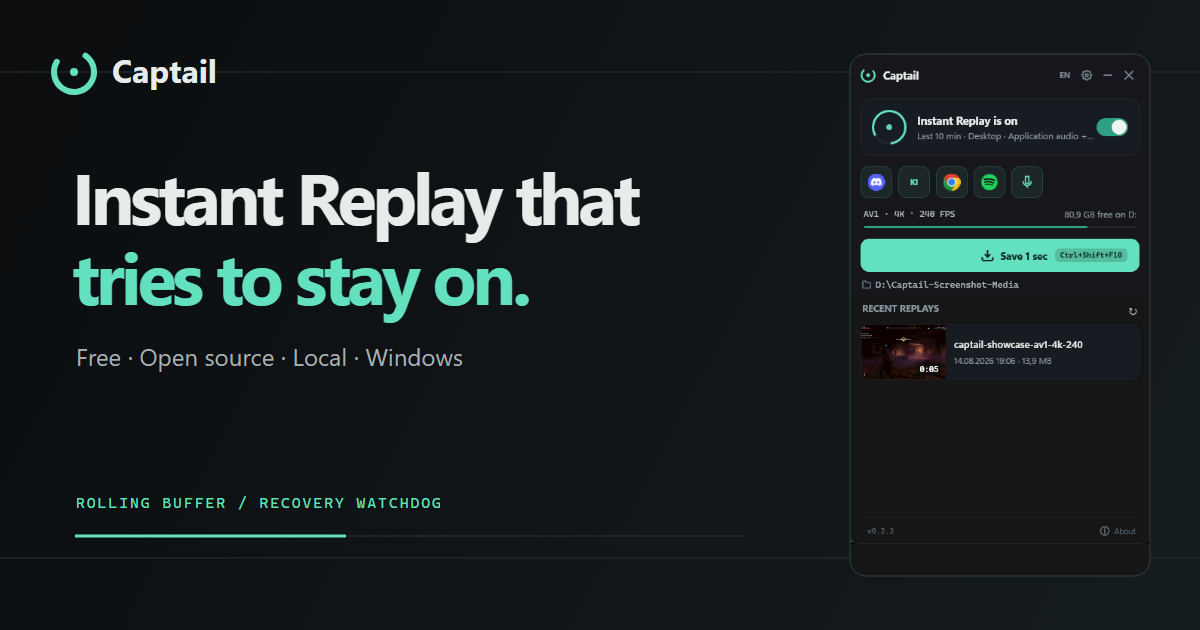
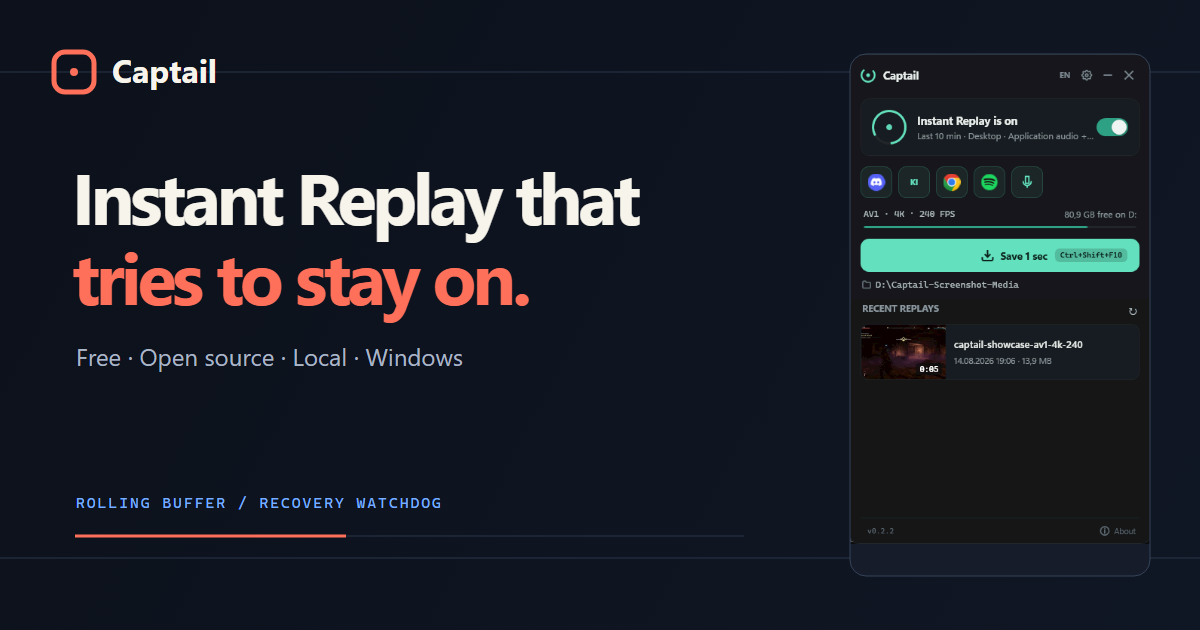
release: prepare 0.8.5

diff --git a/src/Captail/Themes/Theme.xaml b/src/Captail/Themes/Theme.xaml
@@ -94,7 +94,7 @@
   <Geometry x:Key="IconSearch">M10.5 4.5a6 6 0 1 0 0 12 6 6 0 0 0 0-12z M15 15l4.5 4.5</Geometry>
   <Geometry x:Key="IconDisplay">M3 4.5h18v12H3z M8 20h8 M12 16.5V20</Geometry>
   <Geometry x:Key="IconMic">M9 4a3 3 0 0 1 6 0v7a3 3 0 0 1-6 0z M5.5 10.5v.5a6.5 6.5 0 0 0 13 0v-.5 M12 17.5V21 M8.5 21h7</Geometry>
-  <Geometry x:Key="IconGear">M12 9a3 3 0 1 0 0 6 3 3 0 0 0 0-6z M19.4 15a1.65 1.65 0 0 0 .33 1.82l.06.06a2 2 0 1 1-2.83 2.83l-.06-.06a1.65 1.65 0 0 0-1.82-.33 1.65 1.65 0 0 0-1 1.51V21a2 2 0 1 1-4 0v-.09a1.65 1.65 0 0 0-1-1.51 1.65 1.65 0 0 0-1.82.33l-.06.06a2 2 0 1 1-2.83-2.83l.06-.06a1.65 1.65 0 0 0 .33-1.82 1.65 1.65 0 0 0-1.51-1H3a2 2 0 1 1 0-4h.09a1.65 1.65 0 0 0 1.51-1 1.65 1.65 0 0 0-.33-1.82l-.06-.06a2 2 0 1 1 2.83-2.83l.06.06a1.65 1.65 0 0 0 1.82.33 1.65 1.65 0 0 0 1-1.51V3a2 2 0 1 1 4 0v.09a1.65 1.65 0 0 0 1 1.51 1.65 1.65 0 0 0 1.82-.33l.06-.06a2 2 0 1 1 2.83 2.83l-.06.06a1.65 1.65 0 0 0-.33 1.82 1.65 1.65 0 0 0 1.51 1H21a2 2 0 1 1 0 4h-.09a1.65 1.65 0 0 0-1.51 1z</Geometry>
+  <Geometry x:Key="IconGear">M12 8.5a3.5 3.5 0 1 0 0 7 3.5 3.5 0 0 0 0-7z M19.4 13.5l1.6 1.2-2 3.5-1.9-.8a7.7 7.7 0 0 1-2.1 1.2l-.2 2H9.2l-.2-2a7.7 7.7 0 0 1-2.1-1.2l-1.9.8-2-3.5 1.6-1.2a7.3 7.3 0 0 1 0-3L3 9.3l2-3.5 1.9.8A7.7 7.7 0 0 1 9 5.4l.2-2h5.6l.2 2a7.7 7.7 0 0 1 2.1 1.2l1.9-.8 2 3.5-1.6 1.2a7.3 7.3 0 0 1 0 3z</Geometry>
   <Geometry x:Key="IconScissors">M6.5 4a2.5 2.5 0 1 0 0 5 2.5 2.5 0 0 0 0-5z M6.5 15a2.5 2.5 0 1 0 0 5 2.5 2.5 0 0 0 0-5z M8.7 8.2L20 19.5 M8.7 15.8L20 4.5</Geometry>
   <Geometry x:Key="IconTrash">M4 7h16 M9 7V4h6v3 M18.5 7l-.8 13H6.3L5.5 7 M10 11v5 M14 11v5</Geometry>
   <Geometry x:Key="IconEdit">M14.5 5.5l4 4 M5 19l1-4L16.5 4.5a1.4 1.4 0 0 1 2 0l1 1a1.4 1.4 0 0 1 0 2L9 18z M4 21h16</Geometry>
@@ -102,14 +102,18 @@
   <Geometry x:Key="IconPause">M8 5.5h3v13H8z M14 5.5h3v13h-3z</Geometry>
   <Geometry x:Key="IconFullscreen">M9 4H4v5 M15 4h5v5 M9 20H4v-5 M15 20h5v-5</Geometry>
   <Geometry x:Key="IconExitFullscreen">M4 9h5V4 M20 9h-5V4 M4 15h5v5 M20 15h-5v5</Geometry>
-  <Geometry x:Key="IconRefresh">M20 6v5h-5 M4 18v-5h5 M6.1 9a7 7 0 0 1 11.7-2.6L20 9 M4 15l2.2 2.6A7 7 0 0 0 17.9 15</Geometry>
-  <Geometry x:Key="IconCheck">M5 12l4 4L19 6</Geometry>
+  <Geometry x:Key="IconRefresh">M20 7v5h-5 M4 17v-5h5 M6.2 8.5A7 7 0 0 1 18.5 7L20 9 M4 15l1.5 2A7 7 0 0 0 17.8 15.5</Geometry>
+  <Geometry x:Key="IconCheck">M5.5 12.5l4 4 9-9</Geometry>
+  <Geometry x:Key="IconWarning">M12 3.5l9 16H3z M12 9v4.5 M12 17h.01</Geometry>
+  <Geometry x:Key="IconRecord">M12 7a5 5 0 1 0 0 10 5 5 0 0 0 0-10z</Geometry>
+  <Geometry x:Key="IconStop">M7.5 7.5h9v9h-9z</Geometry>
+  <Geometry x:Key="IconReload">M19 8v5h-5 M18.2 8.2A7 7 0 1 0 19 15</Geometry>
   <Geometry x:Key="IconHelp">M8.2 8a3.8 3.8 0 1 1 5.1 3.6c-.9.4-1.3 1-1.3 2 M12 17.5h.01 M21 12a9 9 0 1 1-18 0 9 9 0 0 1 18 0z</Geometry>
 
   <Geometry x:Key="IconGitHub">M12 2a10 10 0 0 0-3.16 19.49c.5.09.68-.22.68-.48v-1.69c-2.78.6-3.37-1.18-3.37-1.18-.45-1.16-1.11-1.47-1.11-1.47-.91-.62.07-.61.07-.61 1 .07 1.53 1.03 1.53 1.03.9 1.53 2.35 1.09 2.92.83.09-.65.35-1.09.64-1.34-2.22-.25-4.56-1.11-4.56-4.94 0-1.09.39-1.98 1.03-2.68-.1-.25-.45-1.27.1-2.64 0 0 .84-.27 2.75 1.02A9.58 9.58 0 0 1 12 7.7a9.6 9.6 0 0 1 2.5.34c1.91-1.29 2.75-1.02 2.75-1.02.55 1.37.2 2.39.1 2.64.64.7 1.03 1.59 1.03 2.68 0 3.84-2.34 4.68-4.57 4.93.36.31.68.92.68 1.86V21c0 .27.18.58.69.48A10 10 0 0 0 12 2z</Geometry>
-  <Geometry x:Key="IconInfo">M12 10v7 M12 7h.01 M21 12a9 9 0 1 1-18 0 9 9 0 0 1 18 0z</Geometry>
-  <Geometry x:Key="IconIssue">M12 8v5 M12 17h.01 M21 12a9 9 0 1 1-18 0 9 9 0 0 1 18 0z</Geometry>
-  <Geometry x:Key="IconFeature">M12 7v10 M7 12h10 M21 12a9 9 0 1 1-18 0 9 9 0 0 1 18 0z</Geometry>
+  <Geometry x:Key="IconInfo">M12 10.5V17 M12 7h.01 M21 12a9 9 0 1 1-18 0 9 9 0 0 1 18 0z</Geometry>
+  <Geometry x:Key="IconIssue">M12 7.5v6 M12 17h.01 M21 12a9 9 0 1 1-18 0 9 9 0 0 1 18 0z</Geometry>
+  <Geometry x:Key="IconFeature">M12 7.5v9 M7.5 12h9 M21 12a9 9 0 1 1-18 0 9 9 0 0 1 18 0z</Geometry>
 
   <!-- ============ TEXT STYLES ============ -->
   <Style x:Key="SectionHeaderText" TargetType="TextBlock">
@@ -1247,10 +1251,11 @@
                     BorderBrush="{StaticResource DividerBrush}"
                     BorderThickness="1" CornerRadius="4"
                     VerticalAlignment="Center">
-              <Path x:Name="Check" Data="M 3,7 L 6,10 L 12,4"
+              <Path x:Name="Check" Data="{StaticResource IconCheck}"
                     Stroke="{StaticResource AccentBrush}" StrokeThickness="2"
                     StrokeStartLineCap="Round" StrokeEndLineCap="Round"
-                    StrokeLineJoin="Round" Visibility="Collapsed"/>
+                    StrokeLineJoin="Round" Visibility="Collapsed"
+                    Margin="2.5" Stretch="Uniform"/>
             </Border>
             <ContentPresenter Grid.Column="1" Margin="7,0,0,0"
                               VerticalAlignment="Center"

diff --git a/site/index.html b/site/index.html
@@ -50,9 +50,9 @@
         "name": "Captail",
         "applicationCategory": "UtilitiesApplication",
         "operatingSystem": "Windows 10 version 2004 or newer, Windows 11",
-        "softwareVersion": "0.8.4",
+        "softwareVersion": "0.8.5",
         "description": "Free, open-source Instant Replay utility for Windows with a rolling buffer, recovery watchdog, and per-application audio routing.",
-        "downloadUrl": "https://github.com/imadraude/captail/releases/download/v0.8.4/Captail-0.8.4-Setup-win-x64.exe",
+        "downloadUrl": "https://github.com/imadraude/captail/releases/download/v0.8.5/Captail-0.8.5-Setup-win-x64.exe",
         "codeRepository": "https://github.com/imadraude/captail",
         "license": "https://www.gnu.org/licenses/old-licenses/gpl-2.0.html",
         "offers": {
@@ -140,13 +140,13 @@
           <div class="capture-state" aria-hidden="true">
             <span class="capture-state-dot"></span>
             <span>REAL APPLICATION UI</span>
-            <span class="capture-state-time" data-current-version>V0.8.4</span>
+            <span class="capture-state-time" data-current-version>V0.8.5</span>
           </div>
           <img
             src="assets/captail-main.png"
             width="404"
             height="650"
-            alt="Captail 0.8.4 main window showing Instant Replay status, audio sources, recording format, disk space, and recent replays"
+            alt="Captail 0.8.5 main window showing Instant Replay status, audio sources, recording format, disk space, and recent replays"
             fetchpriority="high"
             decoding="async"
           />
@@ -837,14 +837,14 @@
         </p>
         <h2 id="download-title">Choose your build.</h2>
         <p class="download-status" data-download-status aria-live="polite">
-          Latest GitHub preview · v0.8.4
+          Latest GitHub preview · v0.8.5
         </p>
 
         <div class="download-options">
           <a
             class="download-option download-option-primary"
             data-download-setup
-            href="https://github.com/imadraude/captail/releases/download/v0.8.4/Captail-0.8.4-Setup-win-x64.exe"
+            href="https://github.com/imadraude/captail/releases/download/v0.8.5/Captail-0.8.5-Setup-win-x64.exe"
           >
             <span class="download-format">.EXE</span>
             <span class="download-copy">
@@ -864,7 +864,7 @@
           <a
             class="download-option"
             data-download-portable
-            href="https://github.com/imadraude/captail/releases/download/v0.8.4/Captail-0.8.4-Portable-win-x64.zip"
+            href="https://github.com/imadraude/captail/releases/download/v0.8.5/Captail-0.8.5-Portable-win-x64.zip"
           >
             <span class="download-format">.ZIP</span>
             <span class="download-copy">

diff --git a/src/Captail/ReplayStatusIndicatorWindow.xaml b/src/Captail/ReplayStatusIndicatorWindow.xaml
@@ -35,15 +35,15 @@
                      Fill="#FFFF705A"
                      HorizontalAlignment="Center" VerticalAlignment="Center"/>
             <Path x:Name="SavedGlyph" Visibility="Collapsed"
-                  Data="M 2.7 6.2 L 4.8 8.3 L 9.6 3.7"
+                  Data="{StaticResource IconCheck}"
                   Stroke="#FF5ED6B2" StrokeThickness="1.45"
                   StrokeStartLineCap="Round" StrokeEndLineCap="Round"
-                  StrokeLineJoin="Round"/>
+                  StrokeLineJoin="Round" Margin="1.8" Stretch="Uniform"/>
             <Path x:Name="ErrorGlyph" Visibility="Collapsed"
-                  Data="M 3.4 3.4 L 8.6 8.6 M 8.6 3.4 L 3.4 8.6"
+                  Data="{StaticResource IconClose}"
                   Stroke="#FFFF5F63" StrokeThickness="1.45"
                   StrokeStartLineCap="Round" StrokeEndLineCap="Round"
-                  StrokeLineJoin="Round"/>
+                  StrokeLineJoin="Round" Margin="2" Stretch="Uniform"/>
         </Grid>
     </Grid>
 </Window>

diff --git a/src/Captail/ClipEditorWindow.xaml b/src/Captail/ClipEditorWindow.xaml
@@ -68,9 +68,10 @@
                                     BorderBrush="{TemplateBinding BorderBrush}"
                                     BorderThickness="{TemplateBinding BorderThickness}">
                                 <Path x:Name="Check" Visibility="Collapsed"
-                                      Data="M4 9l3 3 7-7" Stroke="{StaticResource OnAccentBrush}"
+                                      Data="{StaticResource IconCheck}" Stroke="{StaticResource OnAccentBrush}"
                                       StrokeThickness="2" StrokeStartLineCap="Round"
-                                      StrokeEndLineCap="Round" StrokeLineJoin="Round"/>
+                                      StrokeEndLineCap="Round" StrokeLineJoin="Round"
+                                      Margin="3" Stretch="Uniform"/>
                             </Border>
                             <ContentPresenter Grid.Column="1" Margin="8,0,0,0"
                                               VerticalAlignment="Center"/>

diff --git a/src/Captail/ProcessAudioRoutingWindow.xaml b/src/Captail/ProcessAudioRoutingWindow.xaml
@@ -31,7 +31,7 @@
                                     BorderThickness="1"
                                     CornerRadius="5">
                                 <Path x:Name="Check"
-                                      Data="M4 9l3 3 7-7"
+                                      Data="{StaticResource IconCheck}"
                                       Stroke="{StaticResource OnAccentBrush}"
                                       StrokeThickness="2"
                                       StrokeStartLineCap="Round"

diff --git a/src/Captail/OverlayNotificationWindow.xaml b/src/Captail/OverlayNotificationWindow.xaml
@@ -37,7 +37,7 @@
                     <Viewbox Width="14" Height="14"
                              HorizontalAlignment="Center"
                              VerticalAlignment="Center">
-                        <Canvas Width="14" Height="14">
+                        <Canvas Width="24" Height="24">
                             <Path x:Name="IconPath"
                                   Stroke="#FF5ED6B2"
                                   StrokeThickness="1.7"

diff --git a/site/script.js b/site/script.js
@@ -102,9 +102,9 @@ async function resolveLatestDownloads() {
           : release.tag_name;
     });
   } catch (error) {
-    downloadStatus.textContent = "Latest verified fallback · V0.8.4";
+    downloadStatus.textContent = "Latest verified fallback · V0.8.5";
     console.warn(
-      "Could not resolve latest Captail release; using v0.8.4 links.",
+      "Could not resolve latest Captail release; using v0.8.5 links.",
       error
     );
   }

diff --git a/src/Captail/OverlayNotificationWindow.xaml.cs b/src/Captail/OverlayNotificationWindow.xaml.cs
@@ -17,24 +17,13 @@ public enum OverlayTone
 
 public partial class OverlayNotificationWindow : Window
 {
-    private static readonly Geometry CheckmarkGeometry = Geometry.Parse("M 2.8 7.2 L 5.8 10.2 L 11.2 3.8");
-    private static readonly Geometry CrossGeometry = Geometry.Parse("M 3.6 3.6 L 10.4 10.4 M 10.4 3.6 L 3.6 10.4");
-    private static readonly Geometry WarningGeometry = Geometry.Parse("M 7 1.8 L 12.4 11.6 C 12.7 12.1 12.3 12.8 11.7 12.8 L 2.3 12.8 C 1.7 12.8 1.3 12.1 1.6 11.6 Z M 7 5.4 L 7 8.6 M 7 10.8 L 7 11.0");
-    private static readonly Geometry InfoGeometry = Geometry.Parse("M 7 3.2 L 7 3.4 M 7 5.8 L 7 10.8");
-    private static readonly Geometry DotGeometry = Geometry.Parse("M 7 3.4 A 3.6 3.6 0 1 0 7.01 3.4 Z");
-    private static readonly Geometry SquareGeometry = Geometry.Parse("M 5 3.6 H 9 C 9.8 3.6 10.4 4.2 10.4 5 V 9 C 10.4 9.8 9.8 10.4 9 10.4 H 5 C 4.2 10.4 3.6 9.8 3.6 9 V 5 C 3.6 4.2 4.2 3.6 5 3.6 Z");
-    private static readonly Geometry ReloadGeometry = Geometry.Parse("M 10.5 4.5 A 4.3 4.3 0 1 0 11.3 7 M 10.5 2.2 L 10.5 4.5 L 8.2 4.5");
-
-    static OverlayNotificationWindow()
-    {
-        CheckmarkGeometry.Freeze();
-        CrossGeometry.Freeze();
-        WarningGeometry.Freeze();
-        InfoGeometry.Freeze();
-        DotGeometry.Freeze();
-        SquareGeometry.Freeze();
-        ReloadGeometry.Freeze();
-    }
+    private readonly Geometry _checkmarkGeometry;
+    private readonly Geometry _crossGeometry;
+    private readonly Geometry _warningGeometry;
+    private readonly Geometry _infoGeometry;
+    private readonly Geometry _recordGeometry;
+    private readonly Geometry _stopGeometry;
+    private readonly Geometry _reloadGeometry;
 
     private const int GwlExStyle = -20;
     private const int WsExTransparent = 0x00000020;
@@ -51,6 +40,13 @@ public partial class OverlayNotificationWindow : Window
     public OverlayNotificationWindow()
     {
         InitializeComponent();
+        _checkmarkGeometry = (Geometry)FindResource("IconCheck");
+        _crossGeometry = (Geometry)FindResource("IconClose");
+        _warningGeometry = (Geometry)FindResource("IconWarning");
+        _infoGeometry = (Geometry)FindResource("IconInfo");
+        _recordGeometry = (Geometry)FindResource("IconRecord");
+        _stopGeometry = (Geometry)FindResource("IconStop");
+        _reloadGeometry = (Geometry)FindResource("IconReload");
         Card.RenderTransform = _translate;
         _hideTimer = new DispatcherTimer();
         _hideTimer.Tick += (_, _) => HideAnimated();
@@ -176,43 +172,43 @@ public partial class OverlayNotificationWindow : Window
 
         if (normalized is "✓" or "✔" or "check" or "success")
         {
-            SetVectorIcon(CheckmarkGeometry, stroke: accent, fill: Brushes.Transparent, strokeThickness: 1.7);
+            SetVectorIcon(_checkmarkGeometry, stroke: accent, fill: Brushes.Transparent, strokeThickness: 1.8);
             return;
         }
 
         if (normalized is "✕" or "✖" or "x" or "X" or "error")
         {
-            SetVectorIcon(CrossGeometry, stroke: accent, fill: Brushes.Transparent, strokeThickness: 1.7);
+            SetVectorIcon(_crossGeometry, stroke: accent, fill: Brushes.Transparent, strokeThickness: 1.8);
             return;
         }
 
         if (normalized is "⚠" or "!" or "warning" or "alert")
         {
-            SetVectorIcon(WarningGeometry, stroke: accent, fill: Brushes.Transparent, strokeThickness: 1.35);
+            SetVectorIcon(_warningGeometry, stroke: accent, fill: Brushes.Transparent, strokeThickness: 1.65);
             return;
         }
 
         if (normalized is "ℹ" or "i" or "info")
         {
-            SetVectorIcon(InfoGeometry, stroke: accent, fill: Brushes.Transparent, strokeThickness: 1.7);
+            SetVectorIcon(_infoGeometry, stroke: accent, fill: Brushes.Transparent, strokeThickness: 1.8);
             return;
         }
 
         if (normalized is "●" or "•" or "dot" or "record" or "live")
         {
-            SetVectorIcon(DotGeometry, stroke: Brushes.Transparent, fill: accent, strokeThickness: 0);
+            SetVectorIcon(_recordGeometry, stroke: Brushes.Transparent, fill: accent, strokeThickness: 0);
             return;
         }
 
         if (normalized is "■" or "stop" or "square")
         {
-            SetVectorIcon(SquareGeometry, stroke: Brushes.Transparent, fill: accent, strokeThickness: 0);
+            SetVectorIcon(_stopGeometry, stroke: Brushes.Transparent, fill: accent, strokeThickness: 0);
             return;
         }
 
         if (normalized is "⟳" or "↻" or "reload" or "sync" or "saving" or "recovering")
         {
-            SetVectorIcon(ReloadGeometry, stroke: accent, fill: Brushes.Transparent, strokeThickness: 1.5);
+            SetVectorIcon(_reloadGeometry, stroke: accent, fill: Brushes.Transparent, strokeThickness: 1.8);
             return;
         }
 
@@ -221,16 +217,16 @@ public partial class OverlayNotificationWindow : Window
             switch (tone)
             {
                 case OverlayTone.Success:
-                    SetVectorIcon(CheckmarkGeometry, stroke: accent, fill: Brushes.Transparent, strokeThickness: 1.7);
+                    SetVectorIcon(_checkmarkGeometry, stroke: accent, fill: Brushes.Transparent, strokeThickness: 1.8);
                     break;
                 case OverlayTone.Warning:
-                    SetVectorIcon(WarningGeometry, stroke: accent, fill: Brushes.Transparent, strokeThickness: 1.35);
+                    SetVectorIcon(_warningGeometry, stroke: accent, fill: Brushes.Transparent, strokeThickness: 1.65);
                     break;
                 case OverlayTone.Error:
-                    SetVectorIcon(CrossGeometry, stroke: accent, fill: Brushes.Transparent, strokeThickness: 1.7);
+                    SetVectorIcon(_crossGeometry, stroke: accent, fill: Brushes.Transparent, strokeThickness: 1.8);
                     break;
                 default:
-                    SetVectorIcon(InfoGeometry, stroke: accent, fill: Brushes.Transparent, strokeThickness: 1.7);
+                    SetVectorIcon(_infoGeometry, stroke: accent, fill: Brushes.Transparent, strokeThickness: 1.8);
                     break;
             }
             return;

diff --git a/README.md b/README.md
@@ -30,13 +30,13 @@
 Captail is a focused alternative to NVIDIA ShadowPlay Instant Replay. It keeps the latest seconds or minutes in a rolling buffer, then saves them when you press a hotkey. No scenes, streaming setup, account, cloud upload, analytics, or telemetry.
 
 > [!WARNING]
-> Captail `v0.8.4` is an early public preview. Recording works, but bugs and hardware-specific problems are expected. NVIDIA GeForce GTX 1650 and RTX 40/50 series are tested; other GPUs need broader public testing.
+> Captail `v0.8.5` is an early public preview. Recording works, but bugs and hardware-specific problems are expected. NVIDIA GeForce GTX 1650 and RTX 40/50 series are tested; other GPUs need broader public testing.
 
-## What's new in Captail 0.8.4?
+## What's new in Captail 0.8.5?
 
-Captail 0.8.4 gives the interface a cleaner, more consistent icon system:
+Captail 0.8.5 completes the interface-wide icon-system refresh:
 
-- **Unified vector icons:** Window controls, capture actions, replay tools, editor navigation, audio routing, search, and help now share a balanced 24-pixel grid for sharper alignment at compact Windows display sizes.
+- **One coherent icon language:** Actions, statuses, checkboxes, notifications, replay indicators, app and tray marks, favicon, and social artwork now share the same compact geometry and Captail palette. Icons belonging to other applications remain untouched and recognizable.
 
 ## Is Captail for me?
 

diff --git a/CHANGELOG.md b/CHANGELOG.md
@@ -4,6 +4,12 @@ All notable user-facing changes are documented here.
 
 ## [Unreleased]
 
+## [0.8.5] - 2026-09-15
+
+### Improved
+
+- **Complete icon-system unification:** Consolidated every Captail-owned action, status, checkbox, notification, replay indicator, app, tray, favicon, and social icon into the same compact geometry, rounded construction, and coral-and-ice visual language. Third-party process icons remain unchanged so applications stay recognizable.
+
 ## [0.8.4] - 2026-09-15
 
 ### Improved
